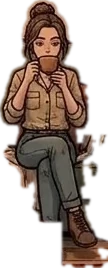
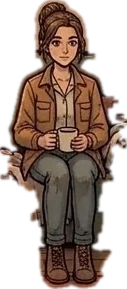
Salon sans table branché : Léo et Maman sur le canapé avec leurs pieds, table reposée en avant

diff --git a/piece.js b/piece.js
@@ -21,8 +21,8 @@ var ZONES_PIECE = [
   ["oRadio",     771, 192, 823, 234, function(){ return icone("radio"); }, "Radio", .5, function(){ return compter("radio") > 0; }],
   ["oTrophees",  172, 296, 232, 356, function(){ return "🏆"; }, "Trophées", .2, function(){ return G.trophees && G.trophees.length > 0; }],
   ["oPhoto",     247, 312, 285, 356, function(){ return icone("photo"); }, "Photo", .5, function(){ return compter("photo") > 0; }],
-  ["chapitre",   365, 570, 660, 678, function(){ return "📜"; }, "Histoire", .55], // le livre ouvert sur la table basse : le chapitre et le récit (l'atelier a sa propre pièce)
-  ["oCartes",    372, 578, 410, 604, function(){ return icone("cartes"); }, "Cartes", .5, function(){ return compter("cartes") > 0; }],
+  ["chapitre",   358, 633, 668, 746, function(){ return "📜"; }, "Histoire", .55], // le livre ouvert sur la table basse : le chapitre et le récit (l'atelier a sa propre pièce)
+  ["oCartes",    366, 641, 406, 669, function(){ return icone("cartes"); }, "Cartes", .5, function(){ return compter("cartes") > 0; }],
   ["chien",      668, 548, 858, 704, function(){ return ic("chien", "🐕"); }, "Rex", .95, function(){ return !!chien(); }]
 ];
 // Éléments posés sur la pièce selon la partie (images Gemini détourées, 2026-11-09), mêmes coordonnées que les zones
@@ -33,13 +33,13 @@ var DECOR_PIECE = [
   // Objets de confort : visibles seulement si on les a (les images de pièce n'en montrent plus)
   ["images/objet-radio.webp",  771, 192, 823, 234, function(){ return compter("radio") > 0; }],
   ["images/objet-photo.webp",  247, 312, 285, 356, function(){ return compter("photo") > 0; }],
-  ["images/objet-cartes.webp", 372, 578, 410, 604, function(){ return compter("cartes") > 0; }]
+  ["images/objet-cartes.webp", 366, 641, 406, 669, function(){ return compter("cartes") > 0; }]
 ];
 /* ---------- Les pièces de la maison, qu'on fait défiler (glisser du doigt, flèches ou points) ----------
    Chaque pièce : son image, sa taille, sa partie utile (cadre) et ses zones, en pixels de SON image. */
 var PIECES = [
   // Salon et chambre : la cheminée montre le feu allumé ou éteint (G.feu)
-  { id:"salon", nom:"Salon", img:"images/refuge-fond-eteint-propre.webp", l:1024, h:1050, cadre:CADRE_PIECE, zones:ZONES_PIECE, decor:DECOR_PIECE },
+  { id:"salon", nom:"Salon", img:"images/refuge-fond-sans-table.webp", l:1024, h:1050, cadre:CADRE_PIECE, zones:ZONES_PIECE, decor:DECOR_PIECE },
   // La cuisine (2026-11-09) : la cuisinière montre le feu le jour où on a cuisiné
   { id:"cuisine", nom:"Cuisine", img:"images/piece-cuisine.webp", l:1024, h:1050, cadre:{ x0:0, x1:1024, y0:150, y1:740 }, decor:[], zones:[
     ["pCuisiner",   20, 420, 290, 740, function(){ return "🍲"; }, "Cuisiner", .55],
@@ -697,11 +697,11 @@ function dormeurLit(lit){
    (de gauche à droite : Papa, Léo, Emma, Maman). Chaque place est découpée à la silhouette, sans toucher aux coussins. */
 // Version 2 (2026-11-12) : deux images Gemini avec deux personnes espacées, silhouettes recalées chacune sur sa place ;
 // ordre de pose Léo, Papa, Emma, Maman (Papa devant le bras de Léo), puis la table basse et ses objets reposés devant eux
-// Papa est dans le fauteuil (3e image Gemini : ses bottes sont visibles, ce qui n'était pas possible sur le canapé derrière la table)
-// En attente (2026-11-12) : Léo, Emma et Maman reviendront quand Gemini les aura dessinés sur le salon SANS table
-// (images/refuge-fond-sans-table.webp + table reposée en avant : images/personnages/table-basse.webp) ; leurs anciennes
-// découpes s'arrêtaient au bord de la table (pieds manquants). Seul Papa, dans le fauteuil, est affiché.
-var PLACES_CANAPE = { "Papa":[120, 352, 362, 717, "fauteuil-papa"] };
+// Salon sans table basse (2026-11-12, idée de Fabien) : la table est un décor reposé 60 px plus en avant et 5 % plus grande,
+// par-dessus les personnes, pour que leurs pieds restent visibles. Papa dans le fauteuil (bottes visibles), Léo et Maman
+// sur le canapé (image Gemini dessinée sur le salon sans table, sans décalage). Emma reviendra avec son image (3e place).
+var PLACES_CANAPE = { "Papa":[120, 352, 362, 717, "fauteuil-papa"], "Léo":[366, 343, 488, 628, "canape-leo"], "Maman":[578, 342, 705, 631, "canape-maman"] };
+var TABLE_SALON = ["images/personnages/table-basse-avant.webp", 348, 571, 671, 751, function(){ return true; }];
 function auSalon(r){
   if(!G || !G.m) return false;
   var i = G.m.findIndex(function(y){ return roleDormeur(y) === r; }), x = G.m[i];
@@ -714,7 +714,7 @@ function auSalon(r){
   var places = Object.keys(PLACES_CANAPE).map(function(r){ var L = PLACES_CANAPE[r];
     return ["images/personnages/" + L[4] + ".webp", L[0], L[1], L[2], L[3], function(){ return auSalon(r); }]; });
   
-  Array.prototype.splice.apply(P.decor, [apres, 0].concat(places));
+  Array.prototype.splice.apply(P.decor, [apres, 0].concat(places, [TABLE_SALON]));
 })();
 
 /* ---------- Mini-jeu du siphonnage (2026-11-11) ----------

diff --git a/site/piece.js b/site/piece.js
@@ -21,8 +21,8 @@ var ZONES_PIECE = [
   ["oRadio",     771, 192, 823, 234, function(){ return icone("radio"); }, "Radio", .5, function(){ return compter("radio") > 0; }],
   ["oTrophees",  172, 296, 232, 356, function(){ return "🏆"; }, "Trophées", .2, function(){ return G.trophees && G.trophees.length > 0; }],
   ["oPhoto",     247, 312, 285, 356, function(){ return icone("photo"); }, "Photo", .5, function(){ return compter("photo") > 0; }],
-  ["chapitre",   365, 570, 660, 678, function(){ return "📜"; }, "Histoire", .55], // le livre ouvert sur la table basse : le chapitre et le récit (l'atelier a sa propre pièce)
-  ["oCartes",    372, 578, 410, 604, function(){ return icone("cartes"); }, "Cartes", .5, function(){ return compter("cartes") > 0; }],
+  ["chapitre",   358, 633, 668, 746, function(){ return "📜"; }, "Histoire", .55], // le livre ouvert sur la table basse : le chapitre et le récit (l'atelier a sa propre pièce)
+  ["oCartes",    366, 641, 406, 669, function(){ return icone("cartes"); }, "Cartes", .5, function(){ return compter("cartes") > 0; }],
   ["chien",      668, 548, 858, 704, function(){ return ic("chien", "🐕"); }, "Rex", .95, function(){ return !!chien(); }]
 ];
 // Éléments posés sur la pièce selon la partie (images Gemini détourées, 2026-11-09), mêmes coordonnées que les zones
@@ -33,13 +33,13 @@ var DECOR_PIECE = [
   // Objets de confort : visibles seulement si on les a (les images de pièce n'en montrent plus)
   ["images/objet-radio.webp",  771, 192, 823, 234, function(){ return compter("radio") > 0; }],
   ["images/objet-photo.webp",  247, 312, 285, 356, function(){ return compter("photo") > 0; }],
-  ["images/objet-cartes.webp", 372, 578, 410, 604, function(){ return compter("cartes") > 0; }]
+  ["images/objet-cartes.webp", 366, 641, 406, 669, function(){ return compter("cartes") > 0; }]
 ];
 /* ---------- Les pièces de la maison, qu'on fait défiler (glisser du doigt, flèches ou points) ----------
    Chaque pièce : son image, sa taille, sa partie utile (cadre) et ses zones, en pixels de SON image. */
 var PIECES = [
   // Salon et chambre : la cheminée montre le feu allumé ou éteint (G.feu)
-  { id:"salon", nom:"Salon", img:"images/refuge-fond-eteint-propre.webp", l:1024, h:1050, cadre:CADRE_PIECE, zones:ZONES_PIECE, decor:DECOR_PIECE },
+  { id:"salon", nom:"Salon", img:"images/refuge-fond-sans-table.webp", l:1024, h:1050, cadre:CADRE_PIECE, zones:ZONES_PIECE, decor:DECOR_PIECE },
   // La cuisine (2026-11-09) : la cuisinière montre le feu le jour où on a cuisiné
   { id:"cuisine", nom:"Cuisine", img:"images/piece-cuisine.webp", l:1024, h:1050, cadre:{ x0:0, x1:1024, y0:150, y1:740 }, decor:[], zones:[
     ["pCuisiner",   20, 420, 290, 740, function(){ return "🍲"; }, "Cuisiner", .55],
@@ -697,11 +697,11 @@ function dormeurLit(lit){
    (de gauche à droite : Papa, Léo, Emma, Maman). Chaque place est découpée à la silhouette, sans toucher aux coussins. */
 // Version 2 (2026-11-12) : deux images Gemini avec deux personnes espacées, silhouettes recalées chacune sur sa place ;
 // ordre de pose Léo, Papa, Emma, Maman (Papa devant le bras de Léo), puis la table basse et ses objets reposés devant eux
-// Papa est dans le fauteuil (3e image Gemini : ses bottes sont visibles, ce qui n'était pas possible sur le canapé derrière la table)
-// En attente (2026-11-12) : Léo, Emma et Maman reviendront quand Gemini les aura dessinés sur le salon SANS table
-// (images/refuge-fond-sans-table.webp + table reposée en avant : images/personnages/table-basse.webp) ; leurs anciennes
-// découpes s'arrêtaient au bord de la table (pieds manquants). Seul Papa, dans le fauteuil, est affiché.
-var PLACES_CANAPE = { "Papa":[120, 352, 362, 717, "fauteuil-papa"] };
+// Salon sans table basse (2026-11-12, idée de Fabien) : la table est un décor reposé 60 px plus en avant et 5 % plus grande,
+// par-dessus les personnes, pour que leurs pieds restent visibles. Papa dans le fauteuil (bottes visibles), Léo et Maman
+// sur le canapé (image Gemini dessinée sur le salon sans table, sans décalage). Emma reviendra avec son image (3e place).
+var PLACES_CANAPE = { "Papa":[120, 352, 362, 717, "fauteuil-papa"], "Léo":[366, 343, 488, 628, "canape-leo"], "Maman":[578, 342, 705, 631, "canape-maman"] };
+var TABLE_SALON = ["images/personnages/table-basse-avant.webp", 348, 571, 671, 751, function(){ return true; }];
 function auSalon(r){
   if(!G || !G.m) return false;
   var i = G.m.findIndex(function(y){ return roleDormeur(y) === r; }), x = G.m[i];
@@ -714,7 +714,7 @@ function auSalon(r){
   var places = Object.keys(PLACES_CANAPE).map(function(r){ var L = PLACES_CANAPE[r];
     return ["images/personnages/" + L[4] + ".webp", L[0], L[1], L[2], L[3], function(){ return auSalon(r); }]; });
   
-  Array.prototype.splice.apply(P.decor, [apres, 0].concat(places));
+  Array.prototype.splice.apply(P.decor, [apres, 0].concat(places, [TABLE_SALON]));
 })();
 
 /* ---------- Mini-jeu du siphonnage (2026-11-11) ----------

diff --git a/site/sw.js b/site/sw.js
@@ -4,7 +4,7 @@
    IMPORTANT : à chaque mise à jour du jeu, changer VERSION (sinon les
    téléphones garderaient l'ancienne copie).
    ===================================================================== */
-var VERSION = "survival-20261112-0942";
+var VERSION = "survival-20261112-0948";
 var FICHIERS = [
   "./",
   "index.html",
@@ -32,6 +32,7 @@ var FICHIERS = [
   "images/refuge-fond-eteint.webp",
   "images/refuge-fond-propre.webp",
   "images/refuge-fond-eteint-propre.webp",
+  "images/refuge-fond-sans-table.webp",
   "images/piece-chambre-propre.webp",
   "images/piece-chambre-feu-propre.webp",
   "images/objet-peluche.webp",

diff --git a/sw.js b/sw.js
@@ -32,6 +32,7 @@ var FICHIERS = [
   "images/refuge-fond-eteint.webp",
   "images/refuge-fond-propre.webp",
   "images/refuge-fond-eteint-propre.webp",
+  "images/refuge-fond-sans-table.webp",
   "images/piece-chambre-propre.webp",
   "images/piece-chambre-feu-propre.webp",
   "images/objet-peluche.webp",

diff --git a/CLAUDE.md b/CLAUDE.md
@@ -388,6 +388,7 @@ Images Gemini du 2026-11-12 (4 demandées, 3 reçues ; la scène de la voiture a
 Canapé version 2 (2026-11-12, retour de Fabien : la 1re découpe gardait un bout de Maman avec Emma, des jambes et le chignon coupés) : 2 images Gemini avec deux personnes espacées (`images/sources/canape-papa-emma-gemini.jpg`, `canape-leo-maman-gemini.jpg`) ; Gemini a mis Papa et Léo, puis Emma et Maman, presque au même endroit, donc chaque silhouette (différence avec la pièce, morceau rattaché au corps, trous bouchés) est recalée sur sa place : centres x 390 / 482 / 568 / 660 (`PLACES_CANAPE`, ordre de pose Léo, Papa, Emma, Maman). La table basse et ses objets (lanterne, tasse, livres) sont reposés devant eux (`images/personnages/canape-table.webp`, découpée dans la pièce). Page de vérification privée : https://claude.ai/artifact/Ksd65n42gfk6XyCJ4V8DeR
 Salon version 3 (2026-11-12, retour de Fabien : pieds et bas des jambes manquants) : Papa est maintenant dans le FAUTEUIL (3e image Gemini `images/sources/fauteuil-papa-gemini.jpg`, bottes visibles ; `images/personnages/fauteuil-papa.webp`, avec le fauteuil redessiné sans plaid). Léo reste à sa place d'origine (plus de décalage), Emma et Maman restent recalées ; les bas de jambes sont récupérés (zone des jambes avec un seuil plus bas, le jean ressemblant au canapé) jusqu'au bord de la table ; leurs pieds restent derrière la table, comme dans la pièce. `PLACES_CANAPE` donne maintenant le nom complet du fichier ; la table n'est reposée que si quelqu'un est sur le canapé
 Salon sans table basse (2026-11-12, idée de Fabien) : Gemini a retiré la table (`images/sources/salon-sans-table-gemini.jpg`, rien d'autre n'a bougé) ; `images/refuge-fond-sans-table.webp` = l'original partout sauf la zone de la table ; `images/personnages/table-basse.webp` = la table et ses objets découpés exactement (différence avec / sans table), à reposer environ 60 px plus en avant et 5 % plus grande (aperçu validé par Claude). PAS ENCORE BRANCHÉ : on attend les images 2 (Léo + Maman) et 3 (Emma) dessinées sur ce salon sans table (prompts « Salon version 4 » dans `images/sources/prompts-gemini-2026-11-12.md`). En attendant, Léo, Emma et Maman ne s'assoient plus sur le canapé (pieds manquants) ; seul Papa est affiché, dans le fauteuil. Au branchement : base du salon = sans table, table en décor après les personnes, déplacer aussi la zone « table basse » et le décor des cartes à jouer
+Salon version 4 branchée (2026-11-12) : image Gemini de Léo + Maman dessinés sur le salon sans table (`images/sources/sans-table-leo-maman-gemini.jpg`, découpés par différence avec le salon sans table, sans décalage, pieds compris) → `images/personnages/canape-leo|maman.webp`. Base du salon = `images/refuge-fond-sans-table.webp` ; la table (`images/personnages/table-basse-avant.webp`, ×1,05) est posée 60 px plus en avant (`TABLE_SALON`, après les personnes, avant Rex et les cartes) ; zone « Histoire » et cartes à jouer déplacées avec elle. `PLACES_CANAPE` : Papa (fauteuil), Léo, Maman. Emma attend son image (3e place, prompt « Image 3 » de la version 4)
 Décor des assauts : la cour fortifiée (`piece-bastion-cour.webp`) sert de fond au combat pendant un assaut (ui.js, `openCombat`).
 Bilan de difficulté (2026-11-10, simulation après tous les ajouts) : Malin vit 85 jours (médiane, 10 % ≤ 68, 90 % ≤ 104, max 122), 96 % atteignent le jour 60, 79 % le jour 75, seulement 16 % le jour 100 ; Naïf 10 jours (1re mort au jour 5). Causes de mort de Malin : attaques de nuit, puis soif, puis faim. Assauts (2 membres, robot Auto, 200 essais) : bastion faible = 100 % de victoires ; remparts 5 + armurerie 3 + cible au jour 200 = 0 % (7 % avec gilets, casques, boucliers et camion au maximum) : courbe trop raide, à lisser. Jour d'accès aux clans : 100 jugé trop long.
 Réglages du 2026-11-10 (choix de Fabien : 30 jours) :
